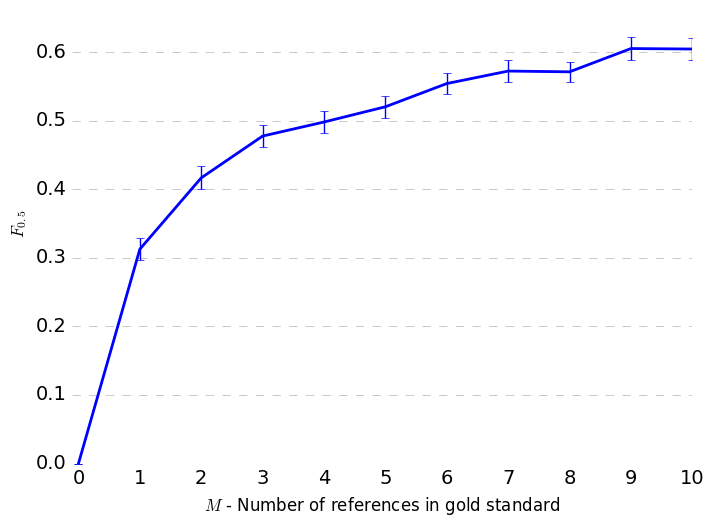
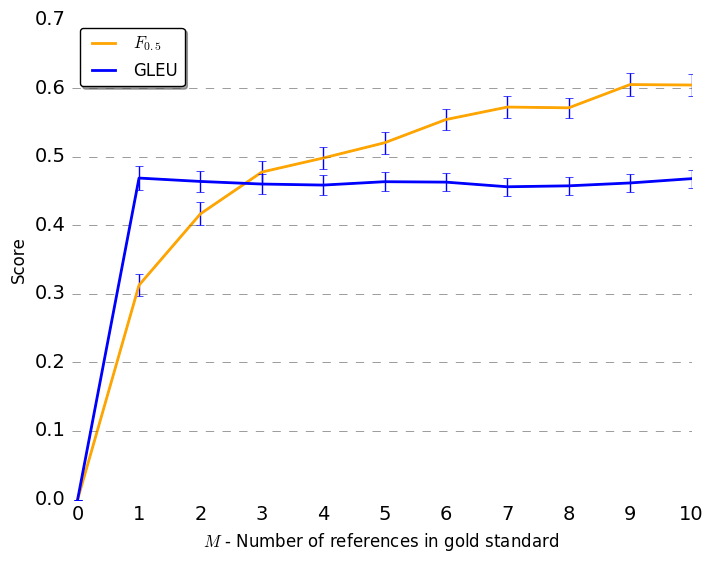
gleu addition

diff --git a/conservatism_main.tex b/conservatism_main.tex
@@ -24,6 +24,7 @@
 \usepackage{bbm}
 \usepackage{booktabs}
 
+
 \usepackage{xr}
 \externaldocument[]{conservatism_supplementary}
 \makeatletter
@@ -83,7 +84,7 @@
     Consequently, existing systems can obtain comparable or
 		superior performance compared to humans, by making few but targeted 
 		changes to the input.
-		Moreover, overcoming ICB by increasing the number of reference is unfeasible, 
+		Moreover, overcoming ICB by increasing the number of references is unfeasible, 
 		due to the long-tailed distribution of valid corrections for a sentence.
 		Similar effects on Text Simplification further support our claims.
 	\end{abstract}
@@ -123,7 +124,7 @@
   (2) that increasing the number of references alleviates under-correction (\S\ref{subsec:reranking});
   and (3) that under-correction is more expressed in error types that are more varied in their valid corrections (\S\ref{subsec:by_types}).
 
-  Recent work has also attempted to address ICB by increasing the number of references (henceforth, $M$) \cite{}.\oa{missing ref}
+  Recent work has also attempted to address ICB by increasing the number of references (henceforth, $M$) \cite{bryant2015far}.
   In Section \ref{sec:increase-reference} we estimate the distribution of corrections per sentence, 
   and find that increasing $M$ is unlikely to overcome ICB, due
   to the vast number of valid corrections for a sentence and their long-tailed distribution.
@@ -459,7 +460,7 @@ and find similar trends with a faster increase in accuracy reaching over $0.47$ 
 	\begin{subfigure}[]{0.65\columnwidth}
 		\centering
 		\includegraphics[width=\textwidth]{$F_{0.5}$_Ms_significance}
-		\caption{$F_{0.5}$\label{fig:F_Ms}}
+		\caption{$F_{0.5}$ and GLEU\label{fig:F_Ms}}
 	\end{subfigure}
 	\hfil
 	\begin{subfigure}[]{0.65\columnwidth}
@@ -523,12 +524,7 @@ of system performance.
 For instance, the $F_{0.5}$-score for our perfect corrector is only 0.42 with $M=2$.
 The saturation effect observed for accuracy is even more pronounced in this setting.
 
-\paragraph{GLEU.} We compute the score of a perfect corrector according to the GLEU
-measure, using the same bootstrap procedure we used for $F$-score. Results (Figure \ref{})
-show similar trends.
-%The recently proposed GLEU \cite{napoles2015ground} measure does not address
-%the coverage issue raised here, as it applies string similarity measures relative to a fairly small
-%number of references. 
+\paragraph{GLEU.} We repeat the procedure using the mean GLEU sentence score (Figure \ref{fig:F_Ms}), shown to correlate better with human judgments \cite{napoles-sakaguchi-tetreault:2016:EMNLP2016}, results with the GLEU aggregated score are about $2\%$ higher with a similar plateau trend.
 
 \paragraph{}
 We do not conduct similar experiments with {\sc I-measure},
@@ -713,6 +709,26 @@ where $\alpha$ is the ratio between the penalty for introducing a wrong correcti
 \vspace{-.1cm}
 \subsection{Under-correction in GEC Systems}\label{subsec:under-correction}
 \vspace{-.1cm}
+\begin{table}
+	\vspace{-0.5cm}
+	\centering
+	\small
+	\singlespacing
+	\begin{tabular}{l|p{4cm}}
+		Corrector & Sentence \\
+		\hline
+		Source & This is especially to people who are overseas. \\
+		\hline 
+		CHAR, UMC, JMGR & This is especially \textbf{for} people who are overseas. \\ 
+		IPN & This is especially to \textbf{peoples} who are overseas. \\ 
+		CUUI &  This is especially to \textbf{the} people who are overseas. \\ 
+		\hline
+		NUCLE$_A$ & This is especially \textbf{true for} people who are overseas.\\
+		NUCLE$_B$ & This is especially \textbf{relevant} to people who are overseas.
+	\end{tabular}
+	\caption{\label{tab:nucle_example} Example for a sentence and proposed corrections by different systems (top part) and by the two NUCLE annotators (bottom part). Systems not mentioned in the table retain the source. No system produces a new word as needed. The two references differ in their corrections.} 
+	\vspace{-0.5cm}
+\end{table} 
 
 In this section we compare the prevalence of changes made to the source by the correctors,
 relative to their prevalence in the NUCLE references (one annotator was arbitrarily 
@@ -848,26 +864,6 @@ No significant difference is found for word order.
 	\vspace{-0.5cm}
 \end{figure}
 
-\begin{table}
-	\vspace{-0.5cm}
-	\centering
-	\small
-	\singlespacing
-	\begin{tabular}{l|p{4cm}}
-		Corrector & Sentence \\
-		\hline
-		Source & This is especially to people who are overseas. \\
-		\hline 
-		CHAR, UMC, JMGR & This is especially \textbf{for} people who are overseas. \\ 
-		IPN & This is especially to \textbf{peoples} who are overseas. \\ 
-		CUUI &  This is especially to \textbf{the} people who are overseas. \\ 
-		\hline
-		NUCLE$_A$ & This is especially \textbf{true for} people who are overseas.\\
-		NUCLE$_B$ & This is especially \textbf{relevant} to people who are overseas.
-	\end{tabular}
-	\caption{\label{tab:nucle_example} Example for a sentence and proposed corrections by different systems (top part) and by the two NUCLE annotators (bottom part). Systems not mentioned in the table retain the source. No system produces a new word as needed. The two references differ in their corrections.} 
-	\vspace{-0.5cm}
-\end{table} 
 %The field of GEC was always thriving or conservatism in its corrections, with the prominent example of using
 %$F_{0.5}$ emphasizing precision over recall(\cite{ng2014conll}). we wish to highlight the problem that
 %arises from pursuing this conservatism as done today.
